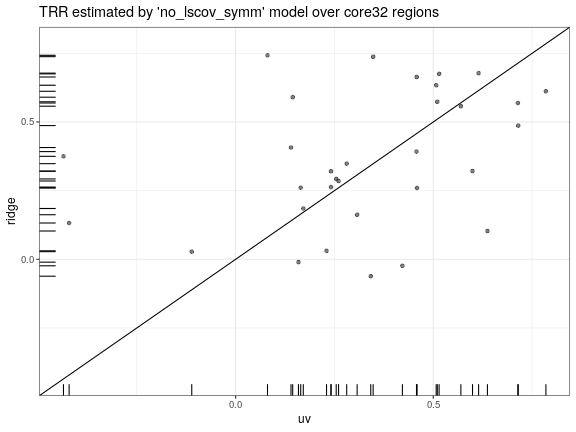
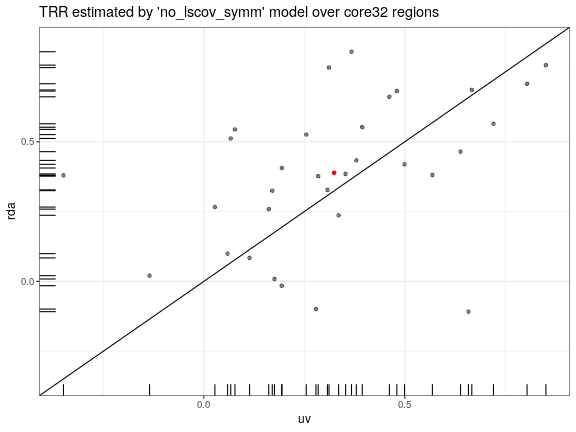
Scatter plots for each model (modeling_results.rmd)

diff --git a/reports/modeling_results.md b/reports/modeling_results.md
@@ -73,24 +73,24 @@ First we plot the TRR estimated from univariate or multivariate methods for each
 
 ```
 ## # A tibble: 400 x 4
-##    region                        ridge     uv is_core32
+##    region                          rda     uv is_core32
 ##    <chr>                         <dbl>  <dbl> <lgl>    
-##  1 17Networks_LH_ContA_Cingm_1 -0.149  0.292  FALSE    
-##  2 17Networks_LH_ContA_IPS_1    0.532  0.592  FALSE    
-##  3 17Networks_LH_ContA_IPS_2    0.0179 0.482  FALSE    
-##  4 17Networks_LH_ContA_IPS_3    0.566  0.397  FALSE    
-##  5 17Networks_LH_ContA_IPS_4    0.697  0.621  FALSE    
-##  6 17Networks_LH_ContA_IPS_5    0.778  0.537  FALSE    
-##  7 17Networks_LH_ContA_PFCd_1   0.546  0.0817 TRUE     
-##  8 17Networks_LH_ContA_PFCl_1   0.541  0.563  TRUE     
-##  9 17Networks_LH_ContA_PFCl_2   0.597  0.582  TRUE     
-## 10 17Networks_LH_ContA_PFCl_3   0.316  0.534  TRUE     
+##  1 17Networks_LH_ContA_Cingm_1 -0.101  0.293  FALSE    
+##  2 17Networks_LH_ContA_IPS_1    0.531  0.592  FALSE    
+##  3 17Networks_LH_ContA_IPS_2   -0.0428 0.482  FALSE    
+##  4 17Networks_LH_ContA_IPS_3    0.537  0.397  FALSE    
+##  5 17Networks_LH_ContA_IPS_4    0.639  0.621  FALSE    
+##  6 17Networks_LH_ContA_IPS_5    0.712  0.537  FALSE    
+##  7 17Networks_LH_ContA_PFCd_1   0.534  0.0817 TRUE     
+##  8 17Networks_LH_ContA_PFCl_1   0.432  0.564  TRUE     
+##  9 17Networks_LH_ContA_PFCl_2   0.438  0.583  TRUE     
+## 10 17Networks_LH_ContA_PFCl_3   0.295  0.534  TRUE     
 ## # … with 390 more rows
 ```
 
 ![plot of chunk Pearson-scatter](figure/Pearson-scatter-1.png)
 
-And the distribution of the difference between the result of "ridge" and "uv":
+And the distribution of the difference between the result of "rda" and "uv":
 
 ![plot of chunk Pearson-diff](figure/Pearson-diff-1.png)
 
@@ -118,30 +118,29 @@ We made the same plots, but this time we only include core32 regions, and show t
 
 ```
 ## # A tibble: 32 x 3
-##    region                          uv  ridge
-##    <chr>                        <dbl>  <dbl>
-##  1 17Networks_LH_ContA_PFCd_1   0.433  0.599
-##  2 17Networks_LH_ContA_PFCl_1   0.591  0.676
-##  3 17Networks_LH_ContA_PFCl_2   0.711  0.486
-##  4 17Networks_LH_ContA_PFCl_3   0.428  0.254
-##  5 17Networks_LH_ContA_PFClv_2  0.594  0.582
-##  6 17Networks_LH_ContB_IPL_2    0.453  0.535
-##  7 17Networks_LH_ContB_PFClv_1  0.475  0.679
-##  8 17Networks_LH_ContB_PFClv_2 -0.197  0.130
-##  9 17Networks_LH_ContB_PFClv_3  0.175  0.647
-## 10 17Networks_LH_ContC_Cingp_2  0.113 -0.187
+##    region                           uv    rda
+##    <chr>                         <dbl>  <dbl>
+##  1 17Networks_LH_ContA_PFCd_1   0.135  0.786 
+##  2 17Networks_LH_ContA_PFCl_1   0.772  0.655 
+##  3 17Networks_LH_ContA_PFCl_2   0.727  0.539 
+##  4 17Networks_LH_ContA_PFCl_3   0.680  0.342 
+##  5 17Networks_LH_ContA_PFClv_2  0.461  0.610 
+##  6 17Networks_LH_ContB_IPL_2    0.339  0.646 
+##  7 17Networks_LH_ContB_PFClv_1  0.719  0.604 
+##  8 17Networks_LH_ContB_PFClv_2 -0.0692 0.205 
+##  9 17Networks_LH_ContB_PFClv_3  0.0971 0.567 
+## 10 17Networks_LH_ContC_Cingp_2  0.0554 0.0171
 ## # … with 22 more rows
 ```
 
 ![plot of chunk fixed-sigma-scatter](figure/fixed-sigma-scatter-1.png)
 
-Here we compare the results when we either normalize the data before calculating the response or not.
+Here we compare the results if we normalize the data within each vertex before fitting the spatial model.
 
 ![plot of chunk w-wo-divnorm-fs](figure/w-wo-divnorm-fs-1.png)
 
-We can see that divisive normalization seems to reduce TRR for "uv" but did not make big difference for "ridge". Therefore, divisive normalization (that we used here and after) might be biased towards multivariate methods without improving the overall result. Here we count the best response variable ("uv" or "ridge", with or without divnorm) over 32 regions:
+We can see that divisive normalization seems to reduce TRR for "uv" but did not make big difference for "rda". Therefore, divisive normalization might be biased towards multivariate methods without improving the overall result, and we didn't use it in all other analysis in this report.
 
-![plot of chunk fs-best](figure/fs-best-1.png)
 
 ## Model 2: "no_lscov_symm"
 
@@ -171,18 +170,18 @@ The same scatter plot:
 
 ```
 ## # A tibble: 32 x 3
-##    region                          uv   ridge
-##    <chr>                        <dbl>   <dbl>
-##  1 17Networks_LH_ContA_PFCd_1   0.507  0.634 
-##  2 17Networks_LH_ContA_PFCl_1   0.615  0.678 
-##  3 17Networks_LH_ContA_PFCl_2   0.715  0.487 
-##  4 17Networks_LH_ContA_PFCl_3   0.459  0.260 
-##  5 17Networks_LH_ContA_PFClv_2  0.570  0.557 
-##  6 17Networks_LH_ContB_IPL_2    0.510  0.574 
-##  7 17Networks_LH_ContB_PFClv_1  0.515  0.675 
-##  8 17Networks_LH_ContB_PFClv_2 -0.111  0.0278
-##  9 17Networks_LH_ContB_PFClv_3  0.144  0.590 
-## 10 17Networks_LH_ContC_Cingp_2  0.159 -0.0103
+##    region                          uv    rda
+##    <chr>                        <dbl>  <dbl>
+##  1 17Networks_LH_ContA_PFCd_1  0.312  0.766 
+##  2 17Networks_LH_ContA_PFCl_1  0.804  0.708 
+##  3 17Networks_LH_ContA_PFCl_2  0.721  0.565 
+##  4 17Networks_LH_ContA_PFCl_3  0.500  0.419 
+##  5 17Networks_LH_ContA_PFClv_2 0.353  0.385 
+##  6 17Networks_LH_ContB_IPL_2   0.462  0.661 
+##  7 17Networks_LH_ContB_PFClv_1 0.667  0.686 
+##  8 17Networks_LH_ContB_PFClv_2 0.0592 0.0994
+##  9 17Networks_LH_ContB_PFClv_3 0.0671 0.512 
+## 10 17Networks_LH_ContC_Cingp_2 0.114  0.0840
 ## # … with 22 more rows
 ```
 
